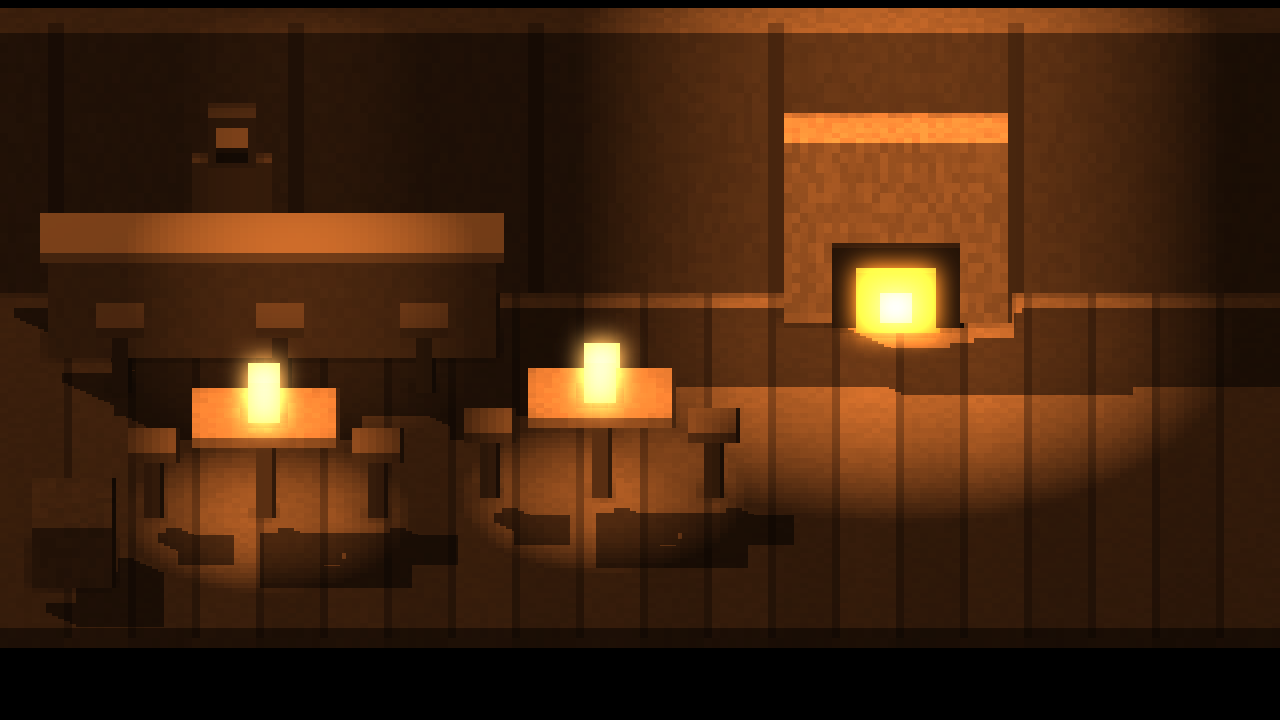
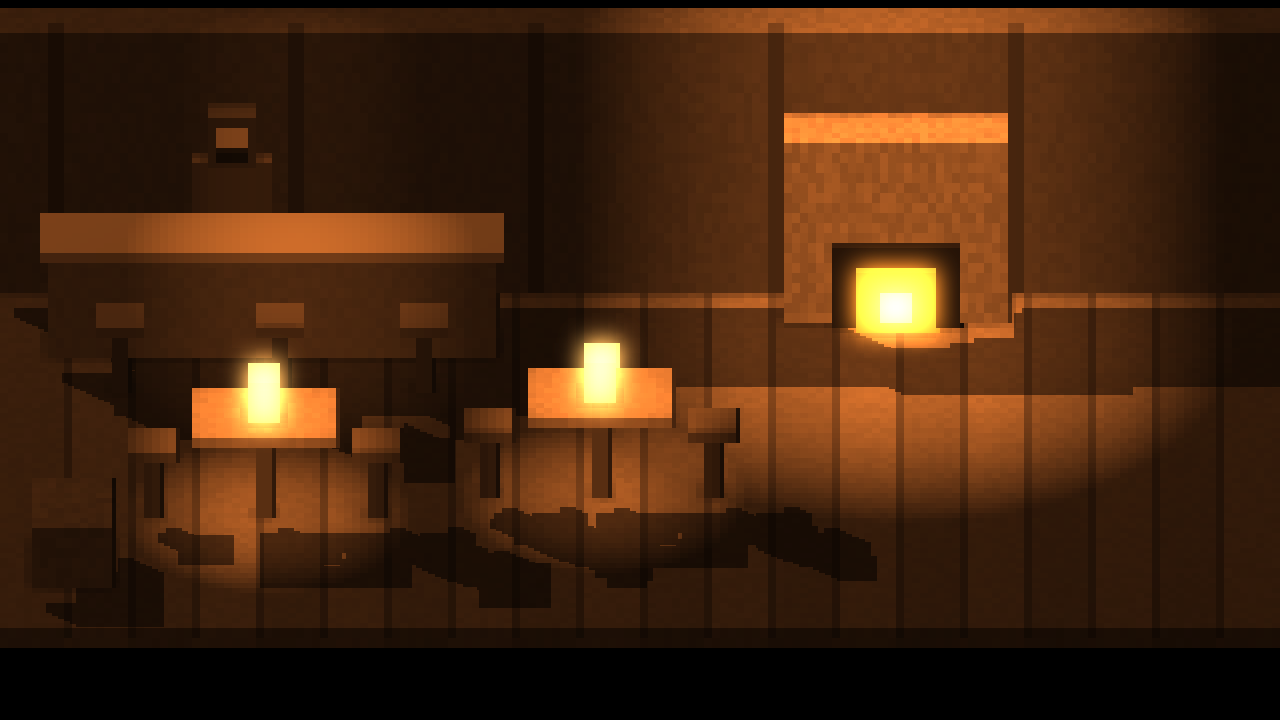
Art: keep hireable cast-shadows on Saloon C backdrop
Render the full concept-C scene first so figure shadows land on the
floor, then composite stool tops from a no-hireable pass into the
backdrop. Matches the approved concept shadow read.

diff --git a/tools/art/saloon_room.py b/tools/art/saloon_room.py
@@ -93,21 +93,48 @@ def main():
     for f in glob.glob(os.path.join(OUT, "crew_*.png*")):
         os.remove(f)
 
-    sc_bg, light = build_C(False)
-    img_bg, own_bg, em_bg, oy = sc_bg.render(light)
-    graded_bg = grade_with_glow(img_bg, em_bg)
-    room = Image.fromarray(np.clip(graded_bg, 0, 255).astype(np.uint8), "RGB").convert("RGBA")
-    lights = lights_overlay(em_bg, np.clip(img_bg, 0, 255))
-    room_path = os.path.join(OUT, "saloon_room.png")
-    lights_path = os.path.join(OUT, "saloon_room_lights.png")
-    room.save(room_path); lights.save(lights_path)
-    write_import(room_path); write_import(lights_path)
-
+    # Render FULL scene with hireables once — keeps figure cast-shadows on the floor
+    # (concept look). Background = full grade with hireable pixels cleared.
     sc_full, light = build_C(True)
     img_full, own_full, em_full, oy = sc_full.render(light)
     graded = grade_with_glow(img_full, em_full)
     body = (own_full > 0) & ~em_full
     graded[body, :3] = np.clip(graded[body, :3] * 1.40 + 14.0, 0, 255)
+
+    # Room backdrop: same pixels, but punch out hireables (own>0) to transparency
+    room_rgba = np.concatenate([
+        np.clip(graded, 0, 255).astype(np.uint8),
+        np.full((*graded.shape[:2], 1), 255, np.uint8),
+    ], -1)
+    room_rgba[own_full > 0, 3] = 0
+    # Fill punched holes with nearby floor colour so stools under sitters don't gap
+    # (sitters cover stool tops; without them a hole appears). Sample from own==0.
+    hole = own_full > 0
+    if hole.any():
+        floor = (~hole) & (img_full.sum(-1) > 10)
+        # simple: paint night-graded floor mean under holes
+        fill = np.array([0x3a, 0x1e, 0x0c, 255], np.uint8)
+        # better: dilate floor into holes
+        from PIL import ImageFilter as _IF
+        mask_inv = Image.fromarray((~hole).astype(np.uint8) * 255)
+        # For each hole pixel, leave transparent — game composites sprites on top.
+        # Stool tops under sitters: restore from a no-hireable render.
+        sc_bg, light_bg = build_C(False)
+        img_bg, _, em_bg, _ = sc_bg.render(light_bg)
+        graded_bg = grade_with_glow(img_bg, em_bg)
+        room_rgba[hole, :3] = np.clip(graded_bg[hole], 0, 255).astype(np.uint8)
+        room_rgba[hole, 3] = 255
+
+    room = Image.fromarray(room_rgba, "RGBA")
+    lights = lights_overlay(em_full, np.clip(img_full, 0, 255))
+    room_path = os.path.join(OUT, "saloon_room.png")
+    lights_path = os.path.join(OUT, "saloon_room_lights.png")
+    room.convert("RGB").save(room_path)  # opaque backdrop for Godot
+    # re-save as RGB (game expects opaque room plate; sprites layer on top)
+    Image.fromarray(np.clip(np.where(hole[..., None], graded_bg, graded), 0, 255).astype(np.uint8), "RGB").save(room_path)
+    lights.save(lights_path)
+    write_import(room_path); write_import(lights_path)
+
     rgba = np.concatenate([
         np.clip(graded, 0, 255).astype(np.uint8),
         np.where(own_full > 0, 255, 0).astype(np.uint8)[..., None],
